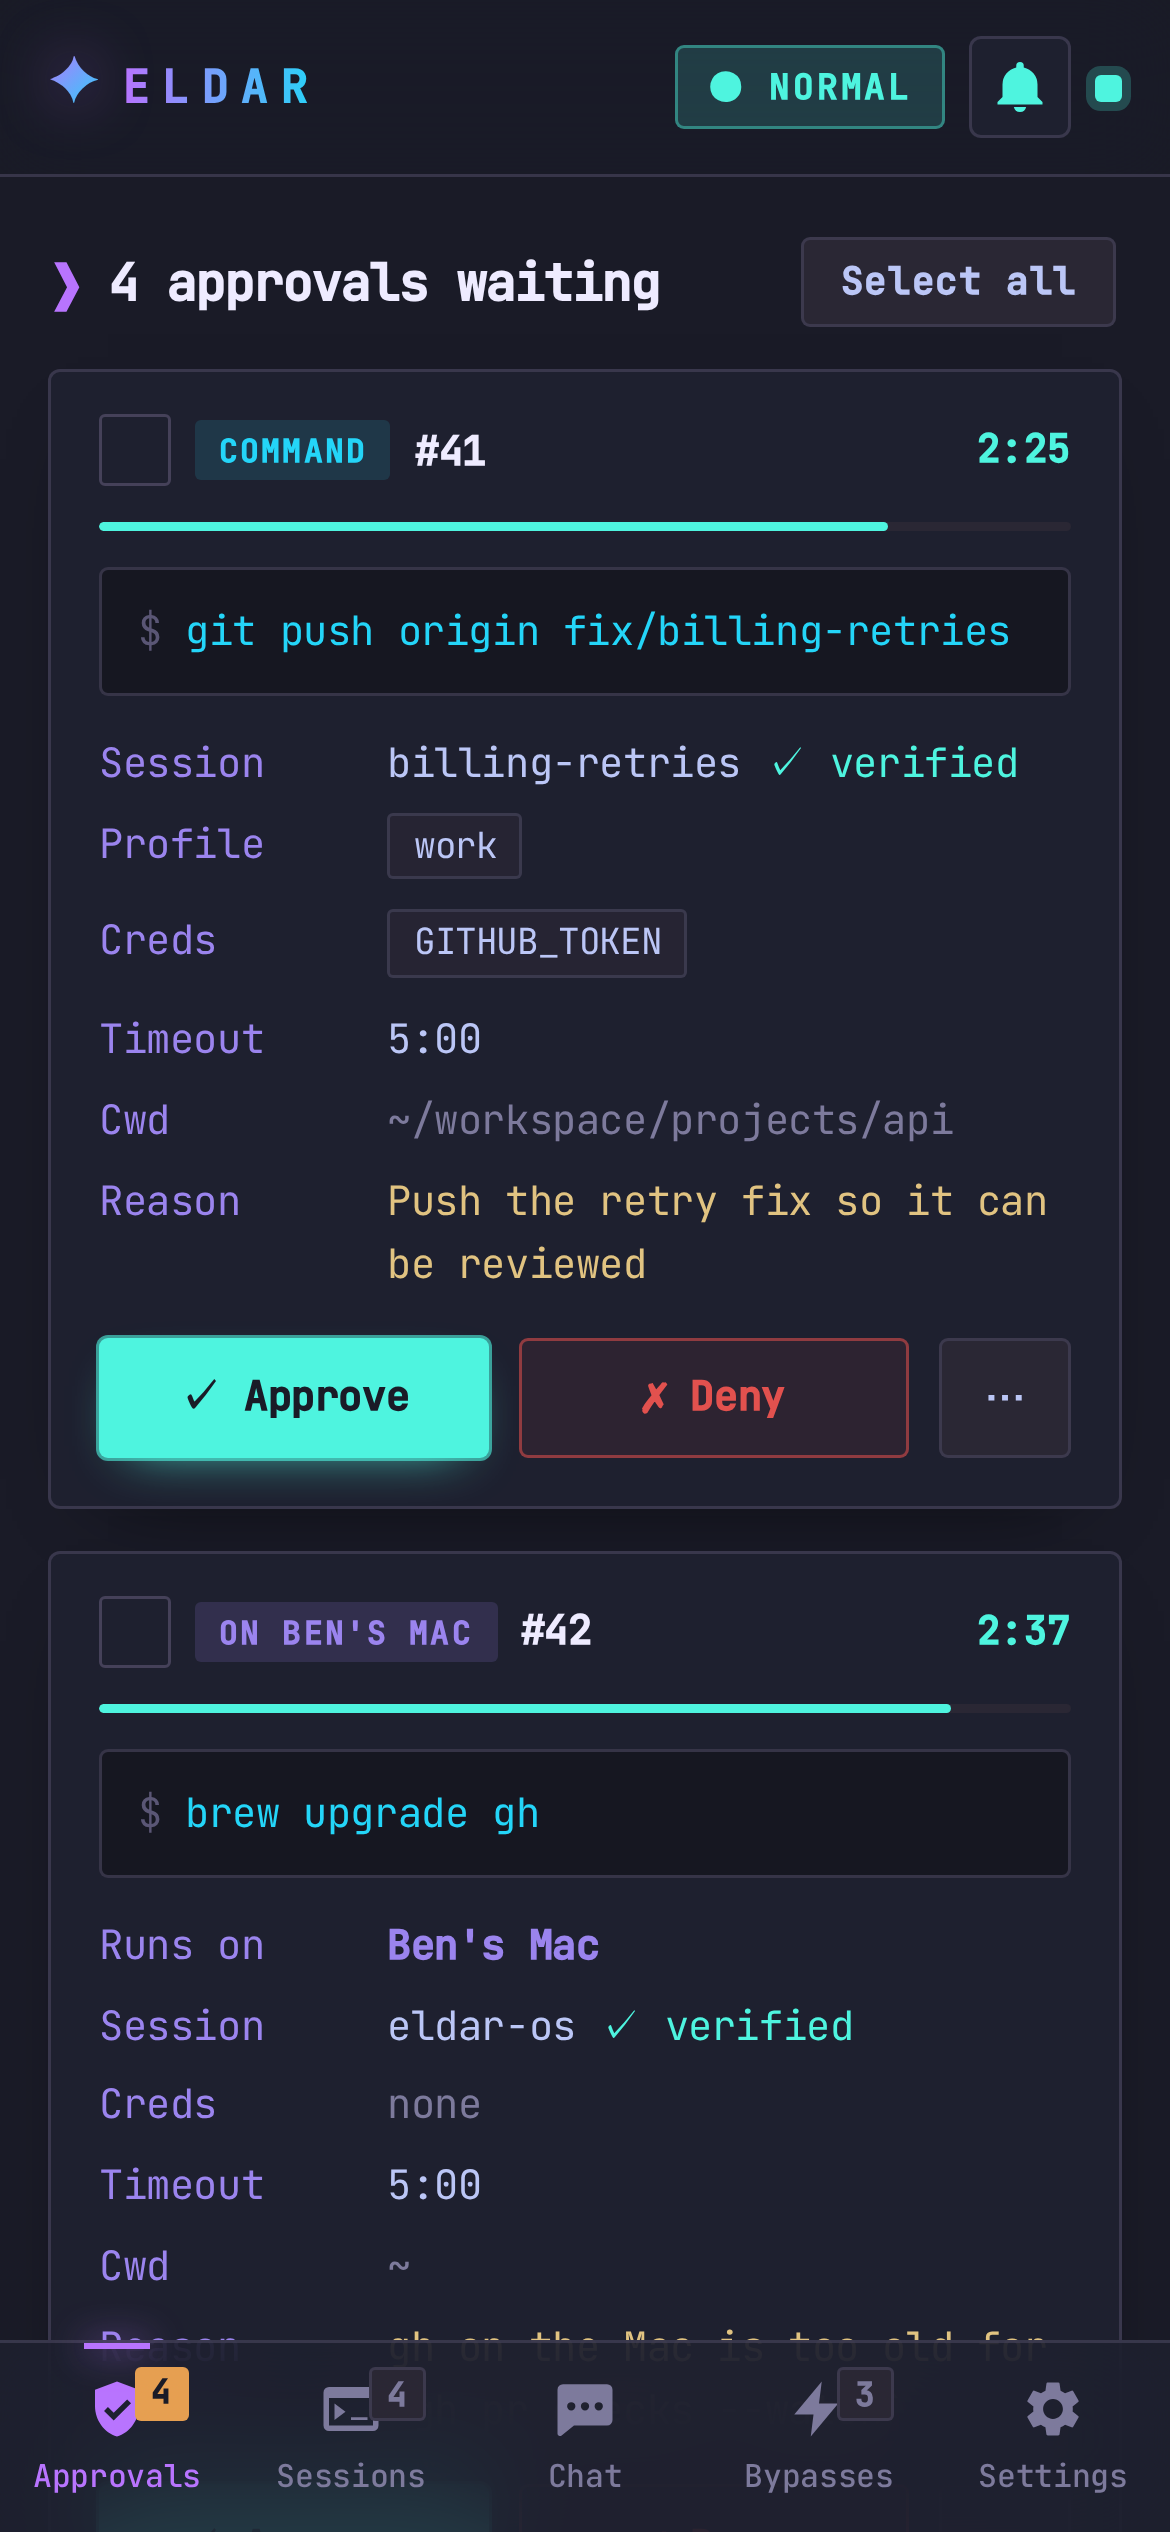
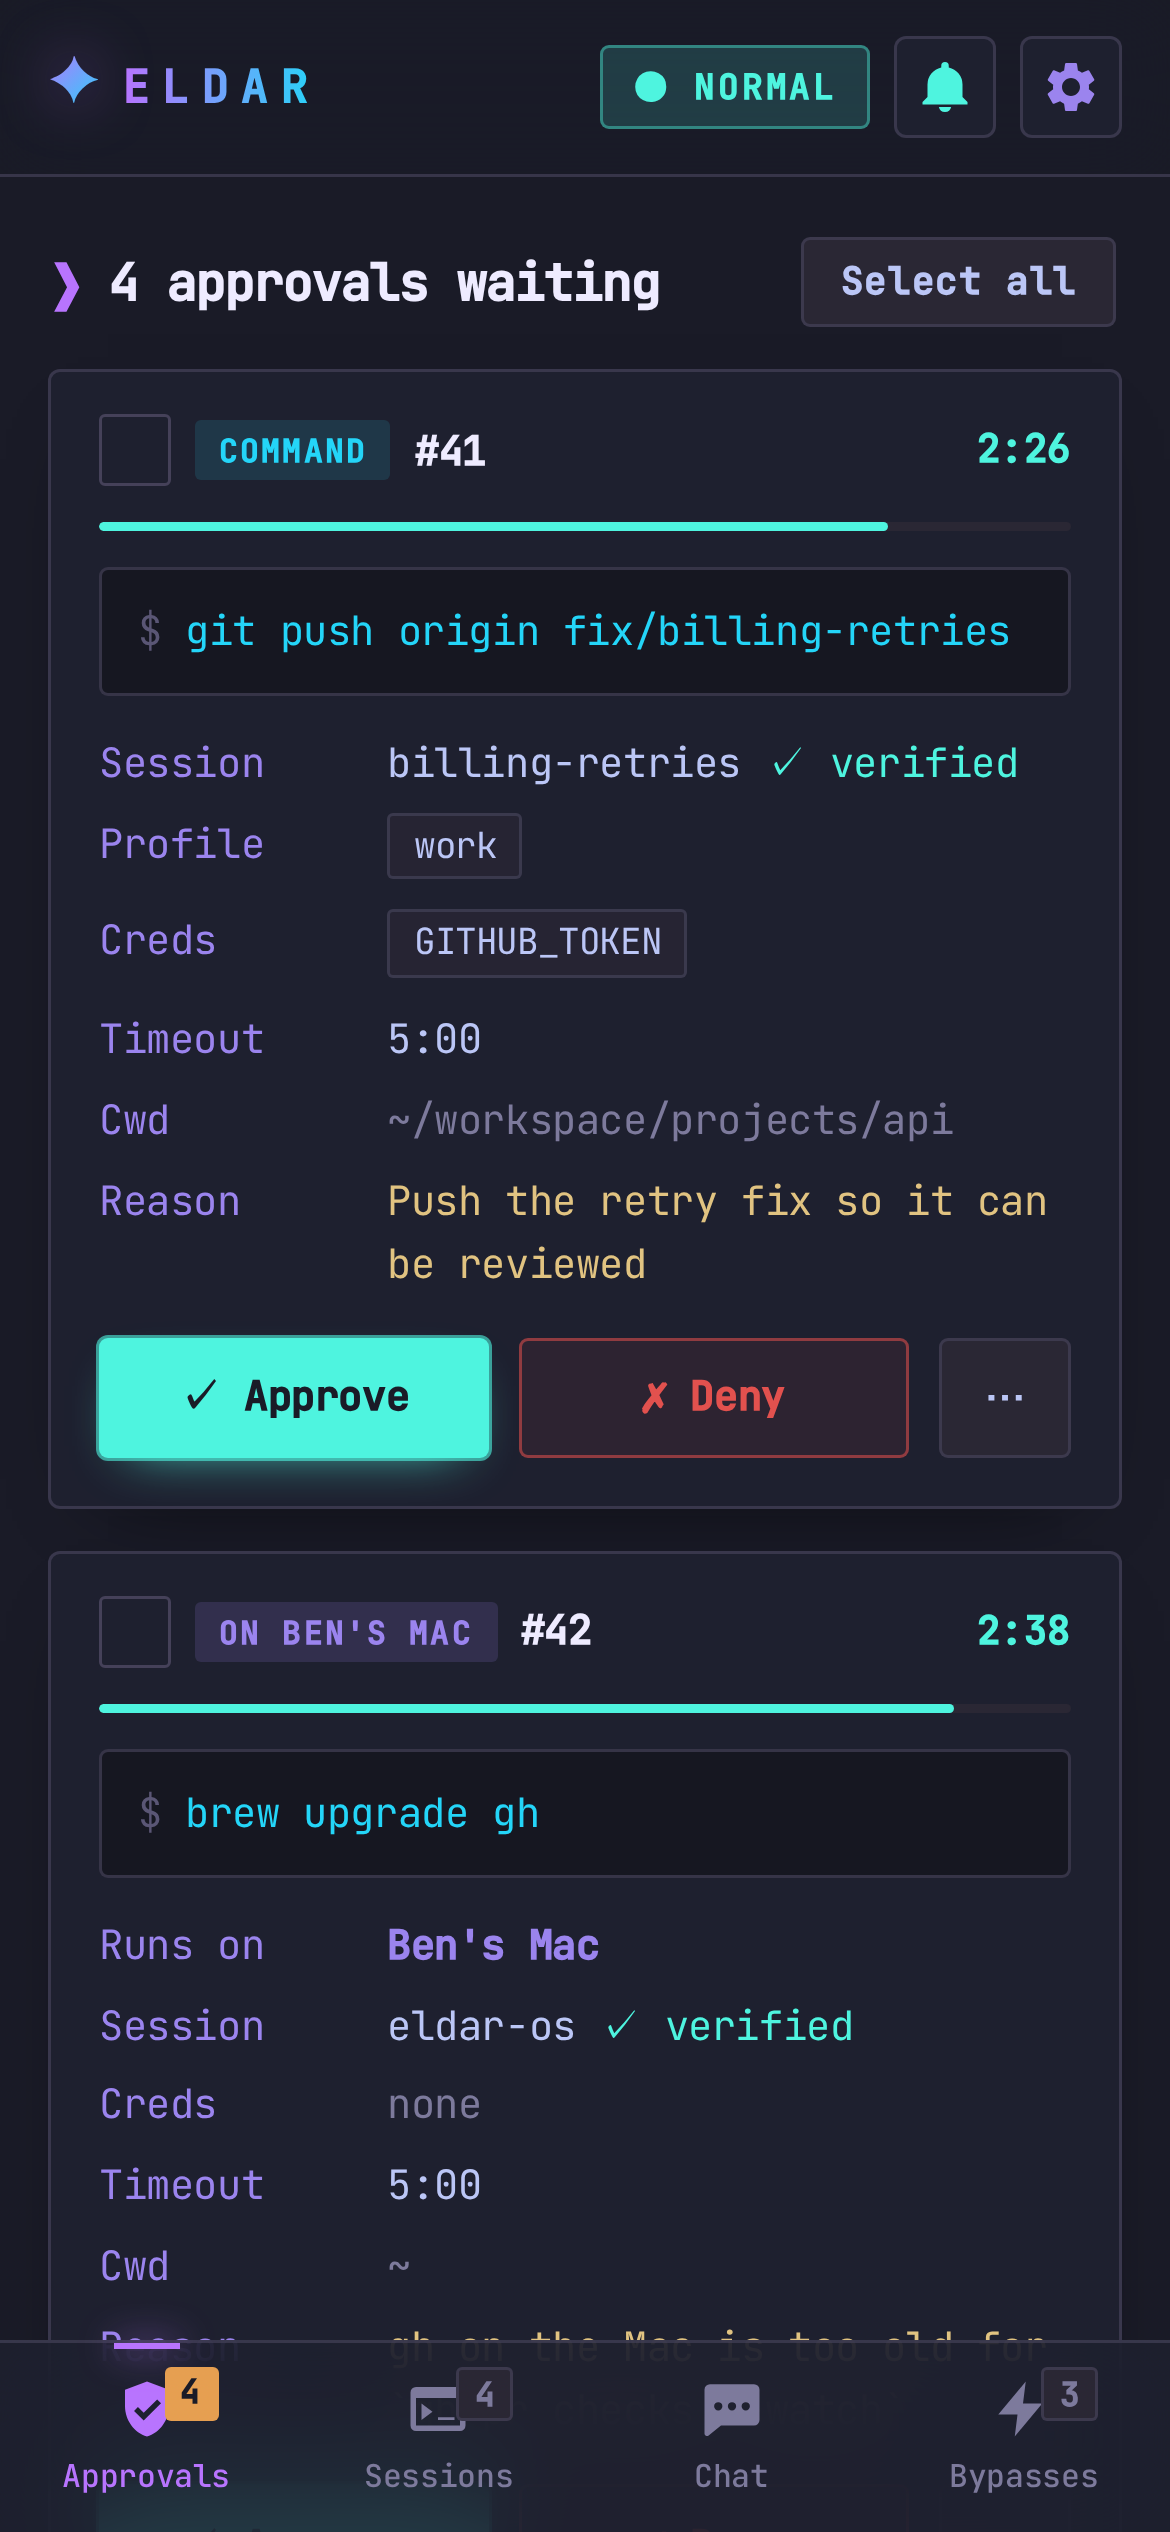
Web UI: Settings is a gear in the header; the tab bar fits one row
Settings moves from the tab bar to the header's far right, in place of the
connection dot; the gear shows a red mark while reconnecting and carries
Settings' badge. The phone tab bar sizes itself to the tabs that show (it
was pinned to five columns, so the Browser tab pushed Settings onto a second
row). Screenshots refreshed.

Claude-Session: https://claude.ai/code/session_01FxxVeXDqzV5TCzFKPKtQMQ

diff --git a/supervisor/web/static/index.html b/supervisor/web/static/index.html
@@ -34,7 +34,10 @@
     <button class="icon-btn" data-action="push-sheet" id="bell" aria-label="Notifications" title="Notifications">
       <svg viewBox="0 0 24 24" width="20" height="20"><path fill="currentColor" d="M12 22a2.5 2.5 0 0 0 2.45-2h-4.9A2.5 2.5 0 0 0 12 22Zm7-6V11a7 7 0 0 0-5.5-6.84V3.5a1.5 1.5 0 0 0-3 0v.66A7 7 0 0 0 5 11v5l-2 2v1h18v-1Z"/></svg>
     </button>
-    <span class="conn" id="conn" title="Live connection"></span>
+    <button class="icon-btn settings-btn" data-tab="settings" id="settings-btn" aria-label="Settings" title="Settings">
+      <svg viewBox="0 0 24 24" width="20" height="20"><path fill="currentColor" d="M19.14 12.94c.04-.3.06-.61.06-.94 0-.32-.02-.64-.07-.94l2.03-1.58a.49.49 0 0 0 .12-.61l-1.92-3.32a.49.49 0 0 0-.59-.22l-2.39.96c-.5-.38-1.03-.7-1.62-.94l-.36-2.54a.48.48 0 0 0-.48-.41h-3.84c-.24 0-.43.17-.47.41l-.36 2.54c-.59.24-1.13.57-1.62.94l-2.39-.96a.48.48 0 0 0-.59.22L2.74 8.87c-.12.21-.08.47.12.61l2.03 1.58c-.05.3-.09.63-.09.94s.02.64.07.94l-2.03 1.58a.49.49 0 0 0-.12.61l1.92 3.32c.12.22.37.29.59.22l2.39-.96c.5.38 1.03.7 1.62.94l.36 2.54c.05.24.24.41.48.41h3.84c.24 0 .44-.17.47-.41l.36-2.54c.59-.24 1.13-.56 1.62-.94l2.39.96c.22.08.47 0 .59-.22l1.92-3.32c.12-.22.07-.47-.12-.61l-2.01-1.58zM12 15.6c-1.98 0-3.6-1.62-3.6-3.6s1.62-3.6 3.6-3.6 3.6 1.62 3.6 3.6-1.62 3.6-3.6 3.6z"/></svg>
+      <b class="count" id="count-settings"></b>
+    </button>
   </div>
 </header>
 
@@ -44,7 +47,6 @@
   <button data-tab="chat"><svg viewBox="0 0 24 24"><path fill="currentColor" d="M4 3h16a2 2 0 0 1 2 2v11a2 2 0 0 1-2 2H8l-4.6 3.7A.9.9 0 0 1 2 21V5a2 2 0 0 1 2-2Zm3 6.5a1.5 1.5 0 1 0 0 3 1.5 1.5 0 0 0 0-3Zm5 0a1.5 1.5 0 1 0 0 3 1.5 1.5 0 0 0 0-3Zm5 0a1.5 1.5 0 1 0 0 3 1.5 1.5 0 0 0 0-3Z"/></svg><span>Chat</span><b class="count" id="count-chat"></b></button>
   {{if .Stream}}<button data-tab="browser"><svg viewBox="0 0 24 24"><path fill="currentColor" d="M4 4h16a2 2 0 0 1 2 2v12a2 2 0 0 1-2 2H4a2 2 0 0 1-2-2V6a2 2 0 0 1 2-2Zm0 5v9h16V9Zm1-3a1 1 0 1 0 0 2 1 1 0 0 0 0-2Zm3 0a1 1 0 1 0 0 2 1 1 0 0 0 0-2Z"/></svg><span>Browser</span></button>{{end}}
   <button data-tab="grants"><svg viewBox="0 0 24 24"><path fill="currentColor" d="M13 2 3 14h7l-1 8 10-12h-7Z"/></svg><span>Bypasses</span><b class="count dim" id="count-grants"></b></button>
-  <button data-tab="settings"><svg viewBox="0 0 24 24"><path fill="currentColor" d="M19.14 12.94c.04-.3.06-.61.06-.94 0-.32-.02-.64-.07-.94l2.03-1.58a.49.49 0 0 0 .12-.61l-1.92-3.32a.49.49 0 0 0-.59-.22l-2.39.96c-.5-.38-1.03-.7-1.62-.94l-.36-2.54a.48.48 0 0 0-.48-.41h-3.84c-.24 0-.43.17-.47.41l-.36 2.54c-.59.24-1.13.57-1.62.94l-2.39-.96a.48.48 0 0 0-.59.22L2.74 8.87c-.12.21-.08.47.12.61l2.03 1.58c-.05.3-.09.63-.09.94s.02.64.07.94l-2.03 1.58a.49.49 0 0 0-.12.61l1.92 3.32c.12.22.37.29.59.22l2.39-.96c.5.38 1.03.7 1.62.94l.36 2.54c.05.24.24.41.48.41h3.84c.24 0 .44-.17.47-.41l.36-2.54c.59-.24 1.13-.56 1.62-.94l2.39.96c.22.08.47 0 .59-.22l1.92-3.32c.12-.22.07-.47-.12-.61l-2.01-1.58zM12 15.6c-1.98 0-3.6-1.62-3.6-3.6s1.62-3.6 3.6-3.6 3.6 1.62 3.6 3.6-1.62 3.6-3.6 3.6z"/></svg><span>Settings</span><b class="count" id="count-settings"></b></button>
 </nav>
 
 <main id="main" tabindex="-1"></main>

diff --git a/supervisor/web/static/app.css b/supervisor/web/static/app.css
@@ -68,8 +68,11 @@ code, pre, .mono { font-family: var(--mono); }
   color: var(--lavender); border: 1px solid var(--line); background: var(--surface);
 }
 .icon-btn.on { color: var(--mint); }
-.conn { width: 9px; height: 9px; border-radius: 50%; background: var(--red); box-shadow: 0 0 0 3px color-mix(in srgb, var(--red) 25%, transparent); }
-.conn.live { background: var(--mint); box-shadow: 0 0 0 3px color-mix(in srgb, var(--mint) 22%, transparent); }
+.settings-btn { position: relative; }
+.settings-btn .count:empty { display: none; }
+.settings-btn .count { position: absolute; top: -6px; right: -6px; }
+.settings-btn.offline::after { content: ""; position: absolute; bottom: 3px; right: 3px; width: 8px; height: 8px; border-radius: 50%;
+  background: var(--red); box-shadow: 0 0 0 2px var(--bg); }
 
 .mode-pill {
   height: 32px; padding: 0 12px; border-radius: 999px; font-weight: 700; font-size: 12px; letter-spacing: .06em;
@@ -83,7 +86,7 @@ code, pre, .mono { font-family: var(--mono); }
 /* ── navigation: bottom bar on phones, rail on wide screens ─────────── */
 .tabs {
   position: fixed; left: 0; right: 0; bottom: 0; z-index: 20;
-  display: grid; grid-template-columns: repeat(4, 1fr);
+  display: grid; grid-auto-flow: column; grid-auto-columns: 1fr; /* one row, however many tabs show */
   height: calc(var(--nav-h) + var(--safe-b)); padding-bottom: var(--safe-b);
   background: color-mix(in srgb, var(--surface) 88%, transparent);
   backdrop-filter: blur(16px); -webkit-backdrop-filter: blur(16px);
@@ -110,7 +113,7 @@ main { max-width: 860px; margin: 0 auto; padding: 16px; outline: none; }
   body { padding-bottom: 32px; padding-left: 220px; }
   .tabs {
     top: 0; bottom: 0; right: auto; width: 220px; height: auto; padding: 88px 12px 12px;
-    grid-template-columns: none; grid-auto-rows: 48px; align-content: start; gap: 4px;
+    grid-template-columns: none; grid-auto-flow: row; grid-auto-rows: 48px; align-content: start; gap: 4px;
     border-top: 0; border-right: 1px solid var(--line); background: color-mix(in srgb, var(--surface) 60%, transparent);
     z-index: 19;
   }
@@ -325,8 +328,6 @@ main { max-width: 860px; margin: 0 auto; padding: 16px; outline: none; }
 .switch.on { background: color-mix(in srgb, var(--mint) 30%, transparent); border-color: var(--mint); }
 .switch.on i { transform: translateX(18px); background: var(--mint); }
 
-/* five tabs on phones (the rail on wide screens is a single column) */
-@media (max-width: 899px) { .tabs { grid-template-columns: repeat(5, 1fr); } }
 @media (max-width: 380px) { .tabs button span { font-size: 10px; } }
 
 /* session sheet actions: primary on its own row, the rest share one */
@@ -477,7 +478,6 @@ body { font: 13.5px/1.55 var(--font); letter-spacing: -0.01em; }
 .sub::before { content: "~/"; color: var(--faint); }
 .icon-btn { border-radius: 4px; width: 34px; height: 34px; }
 .mode-pill { border-radius: 3px; height: 28px; font-size: 11.5px; padding: 0 10px; letter-spacing: .08em; }
-.conn { border-radius: 2px; }
 
 /* headings with prompt glyphs */
 .section-head h1 { font-size: 17px; font-weight: 700; letter-spacing: -0.02em; }

diff --git a/supervisor/web/static/app.js b/supervisor/web/static/app.js
@@ -230,10 +230,12 @@ function render() {
 
 function renderChrome() {
   const d = S.data;
-  $("#conn").className = "conn" + (S.live ? " live" : "");
-  $("#conn").title = S.live ? "Live" : "Reconnecting… " + (S.downMsg || "");
+  // Settings' gear carries the connection state: a red mark while reconnecting.
+  $("#settings-btn").classList.toggle("offline", !S.live);
+  $("#settings-btn").title = S.live ? "Settings" : "Settings · reconnecting… " + (S.downMsg || "");
   const navTab = S.tab === "activity" ? "settings" : S.tab;
   document.querySelectorAll("#tabs button").forEach((b) => b.classList.toggle("active", b.dataset.tab === navTab));
+  $("#settings-btn").classList.toggle("on", navTab === "settings");
   if (!d) return;
   const pill = $("#mode-pill");
   if (d.mode === "bypass") {
